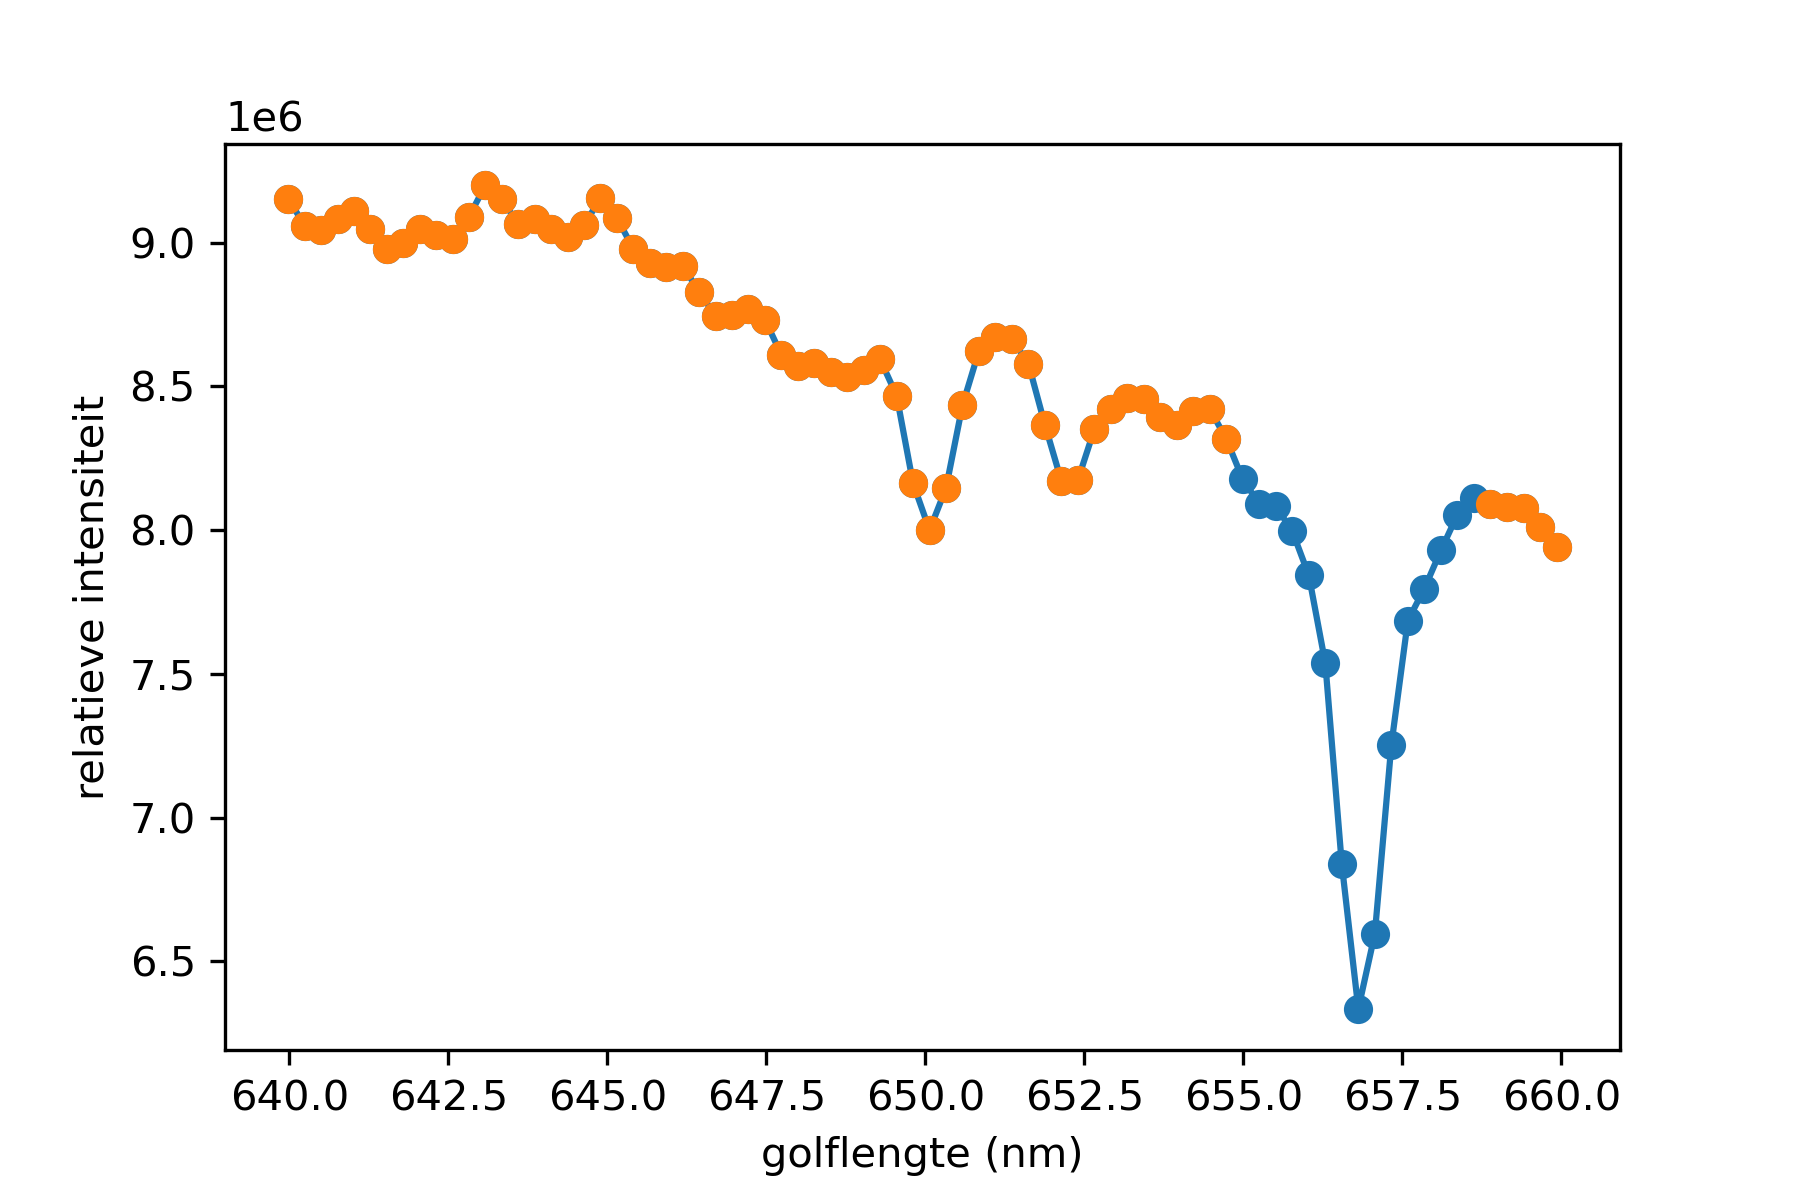
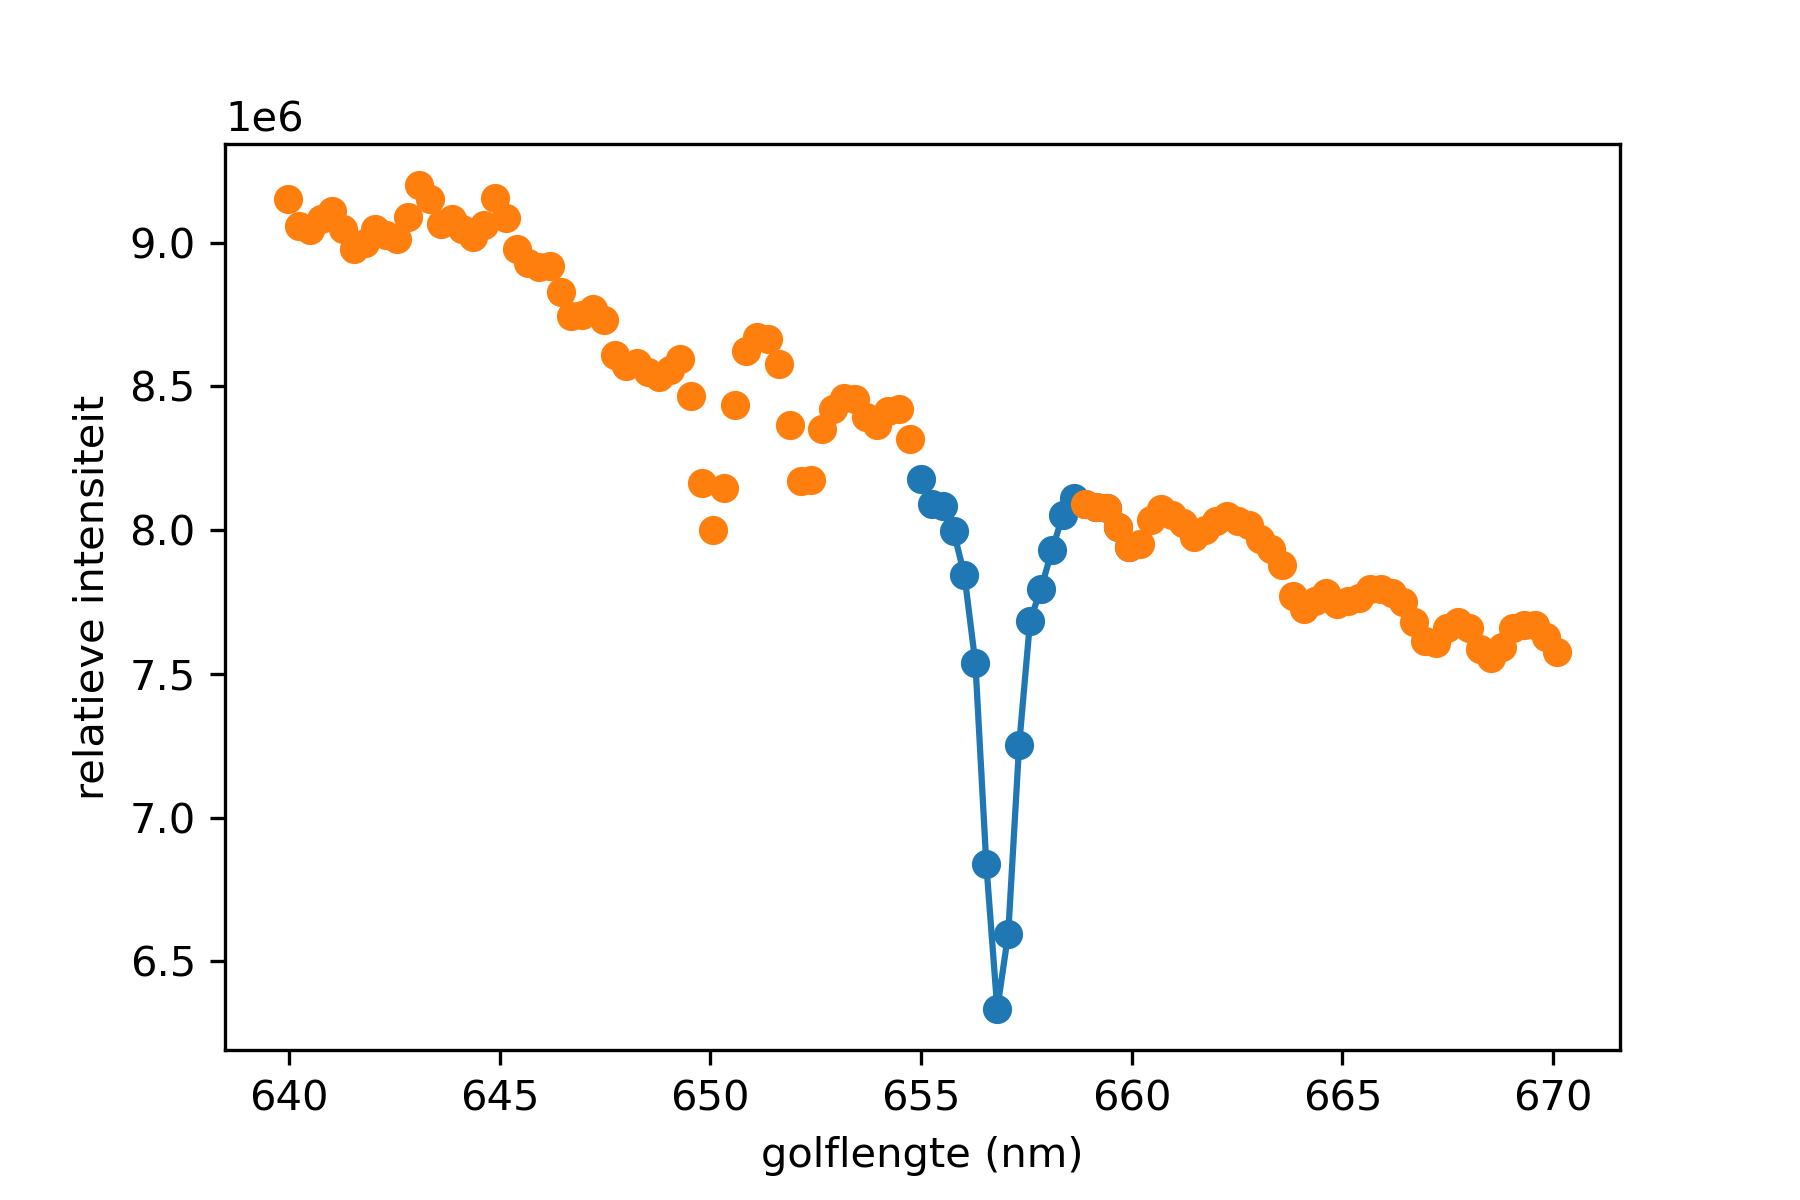
isolate meer

diff --git a/equivalent_width_method.py b/equivalent_width_method.py
@@ -9,7 +9,6 @@ from normalize import Normalize
 import numpy as np
 from scipy.interpolate import make_interp_spline, BSpline
 import matplotlib.pyplot as plt
-plt.style.use('seaborn-talk')
 from astropy.io import fits
 # MatPlotLib tools for drawing on plots.
 import matplotlib.transforms as mtransforms
@@ -21,17 +20,50 @@ from astropy import units as u
 from astropy.visualization import quantity_support
 quantity_support()
 # comes in handy when determinign the eq. width
-from astropy.utils.data import download_file
-from specutils import Spectrum1D
-from specutils import SpectralRegion
-from specutils.analysis import equivalent_width
-from specutils.analysis import fwhm
-from astropy.io import fits
 from lmfit.models import Model
 from scipy.signal import find_peaks
 from pathlib import Path
-import Pylance
         
+    
+data_folder = str('/home/gideon/Documents/NSP2/LISA data/Verschillende hoogtes/Sky_angles/Sky_angles')
+degrees = str('30')
+measurement=str('002')
+
+meting = Normalize(data_folder, degrees, measurement)
+meting.isolate(640,670)
+meting.mask_peak(656, 0.5)
+meting.smooth_function(10)
+meting.curve_fit()
+x, y = meting.normalize()
+
+
+# isolate further for peak only
+def isolate(x, y, min,max):
+    """Isolates specific wavelength range, so that only one absorption peak is found. 
+    
+    Args:
+        min (float): lowest wavelength in range to analyze
+        max (float): highest wavelength in range to analyze
+    """
+    
+    # finds smallest difference between x and min/max
+    min_diff = np.abs(x - min)
+    max_diff = np.abs(x - max)
+    
+    # finds index associated with these values
+    min_idx = min_diff.argmin()
+    max_idx = max_diff.argmin()
+    
+    x = x[min_idx:max_idx+1]
+    y = y[min_idx:max_idx+1]
+    
+    return x, y
+
+
+x,y = isolate(x,y, 654,660)
+plt.figure()
+plt.plot([640,680])
+plt.plot(x,y,'o')
 
 # RECHTHOEK MAKEN
 # er wordt gebruik gemaakt van matplotlib tranforms
@@ -51,8 +83,8 @@ import Pylance
 # # Green area
 # trans = mtransforms.blended_transform_factory(ax.transData, ax.transAxes)
 # ax2.fill_between(golflengte_1, 1, relative_intensity_1, where=relative_intensity_1 < 1*u.Unit('erg cm-2 s-1 AA-1'),
-#                  facecolor='green', interpolate=True, alpha=0.3)
-# # Dark gray area.
+#                   facecolor='green', interpolate=True, alpha=0.3)
+# Dark gray area.
 # ax2.add_patch(plt.Rectangle((.29, .045), .358, 0.85, ec='k', fc="k",
 #                             alpha=0.3,  transform=ax2.transAxes))
 

diff --git a/normalize.py b/normalize.py
@@ -138,30 +138,4 @@ class Normalize:
         plt.plot(x,y_fit)
         
         y_norm = y / y_fit
-        return y_norm
-    
-data_folder = str('/home/gideon/Documents/NSP2/LISA data/Verschillende hoogtes/Sky_angles/Sky_angles')
-degrees = str('30')
-measurement=str('002')
-
-meting = Normalize(data_folder, degrees, measurement)
-x, y = meting.isolate(640,660)
-
-xm,ym = meting.mask_peak(656, 0.5)
-ys=meting.smooth_function(10)
-meting.curve_fit()
-yn = meting.normalize()
-
-plt.figure()
-plt.plot(x,y,'-o')
-plt.plot(xm,ym,'o')
-plt.xlabel('golflengte (nm)')
-plt.ylabel('relatieve intensiteit')
-plt.savefig('mask.png', dpi=300)
-# plt.plot(xm,ys,'o')
-
-plt.figure()
-plt.plot(x,yn, 'o')
-plt.xlabel('golflengte (nm)')
-plt.ylabel('relatieve intensiteit')
-plt.savefig('norm.png', dpi=300)
+        return self.x, y_norm
